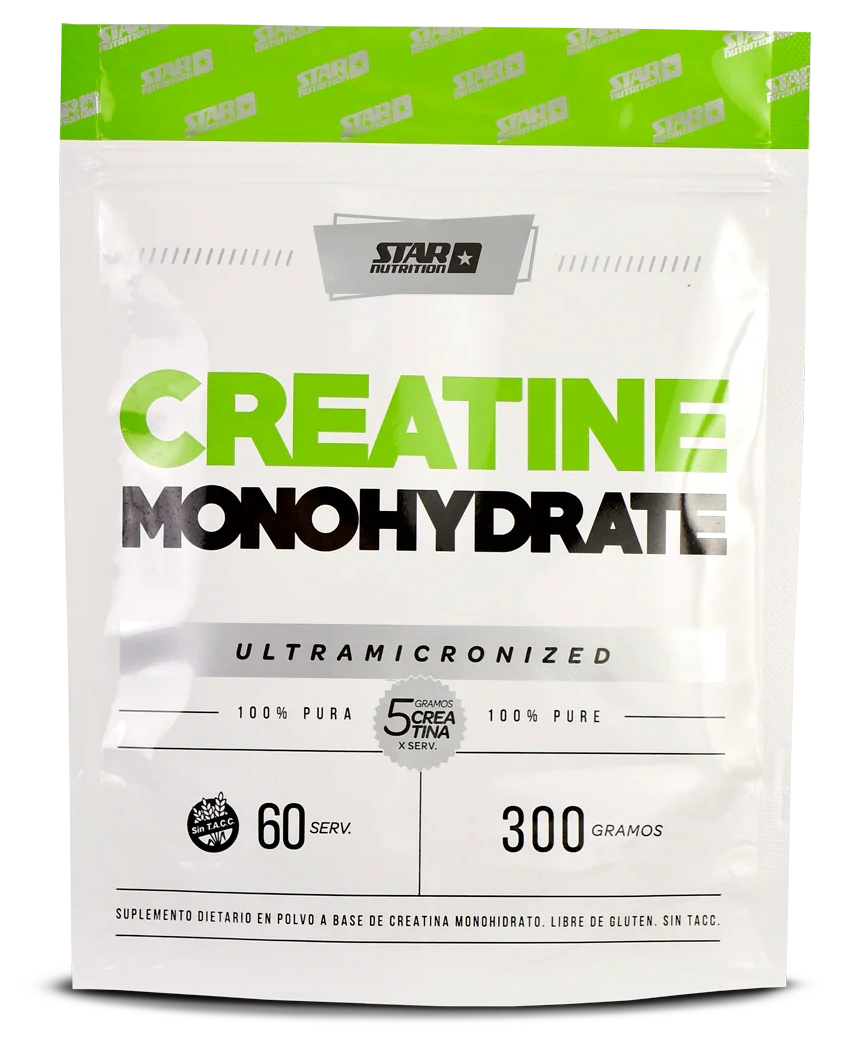
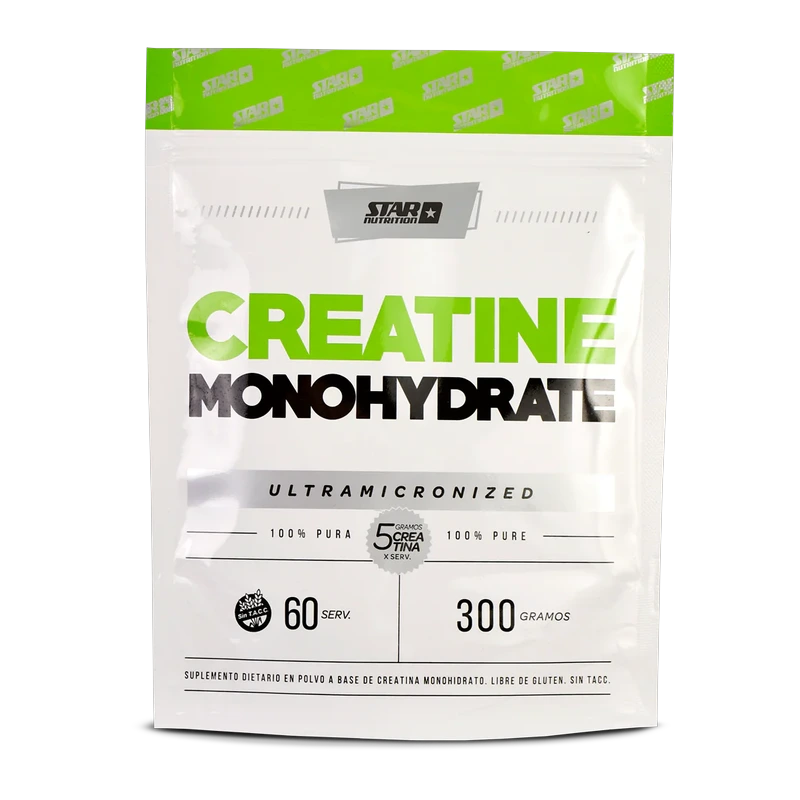
Se agrego imagenes del stock  de los productos (algunas)

diff --git a/src/data/products.ts b/src/data/products.ts
@@ -32,6 +32,7 @@ export const PRODUCTS: Product[] = [
     stock: true,
     categoria: "Creatinas",
     tagline: "Máxima Fuerza y Resistencia",
+    imagen: "/products/creatina-gold-300g.webp",
   },
   {
     id: 3,
@@ -43,6 +44,7 @@ export const PRODUCTS: Product[] = [
     stock: true,
     categoria: "Creatinas",
     tagline: "Formato XL Económico",
+    imagen: "/products/creatina-star-1000g.webp",
   },
   {
     id: 4,
@@ -65,6 +67,7 @@ export const PRODUCTS: Product[] = [
     stock: true,
     categoria: "Creatinas",
     tagline: "Inicio y Mantenimiento",
+    imagen: "/products/creatina-onefit-200g.webp",
   },
   {
     id: 6,
@@ -76,6 +79,7 @@ export const PRODUCTS: Product[] = [
     stock: true,
     categoria: "Creatinas",
     tagline: "Rendimiento Atlético Diario",
+    imagen: "/products/creatina-onefit-500g.webp",
   },
   {
     id: 7,
@@ -87,6 +91,7 @@ export const PRODUCTS: Product[] = [
     stock: true,
     categoria: "Proteínas",
     tagline: "Plant-Based High Protein",
+    imagen: "/products/proteina-vegetal-gold-907g.webp",
   },
   {
     id: 8,
@@ -98,6 +103,7 @@ export const PRODUCTS: Product[] = [
     stock: true,
     categoria: "Proteínas",
     tagline: "Proteína + Colágeno Hidrolizado",
+    imagen: "/products/collagen-whey-star-907g.webp",
   },
   {
     id: 9,
@@ -109,6 +115,7 @@ export const PRODUCTS: Product[] = [
     stock: true,
     categoria: "Proteínas",
     tagline: "25g de Proteína por Scoop",
+    imagen: "/products/premium-whey-star-doypack-907g.webp",
   },
   {
     id: 10,
@@ -131,6 +138,7 @@ export const PRODUCTS: Product[] = [
     stock: true,
     categoria: "Proteínas",
     tagline: "Rápida Absorción BCAA",
+    imagen: "/products/premium-whey-onefit-907g.webp",
   },
   {
     id: 12,

diff --git a/scratch/normalize_images.py b/scratch/normalize_images.py
@@ -1,0 +1,90 @@
+import os
+from PIL import Image
+import numpy as np
+from scipy.ndimage import label
+
+CANVAS_SIZE = (800, 800)
+TARGET_MAX_DIM = 710  # 710px out of 800px leaves 45px padding (88.75% height)
+
+def remove_white_exterior(im: Image.Image, tolerance=20) -> Image.Image:
+    im = im.convert("RGBA")
+    arr = np.array(im)
+    r, g, b, a = arr[:,:,0], arr[:,:,1], arr[:,:,2], arr[:,:,3]
+
+    # Mask of pixels that are near white
+    is_white = (r >= 255 - tolerance) & (g >= 255 - tolerance) & (b >= 255 - tolerance) & (a > 200)
+
+    # Label connected components of white
+    labeled, num_features = label(is_white)
+
+    # Find which components touch any outer edge
+    border_labels = set()
+    border_labels.update(labeled[0, :])
+    border_labels.update(labeled[-1, :])
+    border_labels.update(labeled[:, 0])
+    border_labels.update(labeled[:, -1])
+    border_labels.discard(0)
+
+    if border_labels:
+        ext_mask = np.isin(labeled, list(border_labels))
+        # Turn exterior white background transparent
+        arr[ext_mask, 3] = 0
+
+    return Image.fromarray(arr)
+
+def process_and_normalize(src_path: str, dst_path: str, is_white_bg=False):
+    im = Image.open(src_path)
+
+    if is_white_bg or im.mode == "RGB":
+        im = remove_white_exterior(im)
+    else:
+        im = im.convert("RGBA")
+
+    # Crop tightly to product bounding box
+    bbox = im.getbbox()
+    if not bbox:
+        print(f"Warning: Empty bbox for {src_path}")
+        return
+
+    cropped = im.crop(bbox)
+
+    # Scale so that maximum dimension equals TARGET_MAX_DIM
+    w, h = cropped.size
+    scale = TARGET_MAX_DIM / max(w, h)
+    new_w = max(1, int(round(w * scale)))
+    new_h = max(1, int(round(h * scale)))
+
+    resized = cropped.resize((new_w, new_h), Image.Resampling.LANCZOS)
+
+    # Create standard 800x800 square canvas
+    canvas = Image.new("RGBA", CANVAS_SIZE, (0, 0, 0, 0))
+
+    # Center resized product onto canvas
+    paste_x = (CANVAS_SIZE[0] - new_w) // 2
+    paste_y = (CANVAS_SIZE[1] - new_h) // 2
+
+    canvas.paste(resized, (paste_x, paste_y), resized)
+
+    # Save as WebP
+    os.makedirs(os.path.dirname(dst_path), exist_ok=True)
+    canvas.save(dst_path, "WEBP", quality=92)
+    print(f"Processed: {os.path.basename(src_path)} -> {os.path.basename(dst_path)} (content: {new_w}x{new_h})")
+
+MAPPING = [
+    ("Creatina Monohidrato Doypack (Bolsa) - 300 g.webp", "public/products/creatina-star-300g.webp", False),
+    ("Gold Nutrition Creatina Monohidrato Doypack 300g png.png", "public/products/creatina-gold-300g.webp", True),
+    ("CreatineM-1Kg_3095f1e3-5758-4f7e-8b63-d49c583050e0.png.webp", "public/products/creatina-star-1000g.webp", False),
+    ("One Fit Creatina Monohidrato 200g png.webp", "public/products/creatina-onefit-200g.webp", True),
+    ("One Fit Creatina Monohidrato 500g png.webp", "public/products/creatina-onefit-500g.webp", True),
+    ("Gold Nutrition Proteina Vegetal Isolate 2 lbs png.png", "public/products/proteina-vegetal-gold-907g.webp", False),
+    ("Star Nutrition Collagen Whey Protein 2 lbs png.webp", "public/products/collagen-whey-star-907g.webp", False),
+    ("Premium Whey Protein Doypack (Bolsa) - 2 lbs (907 g).webp", "public/products/premium-whey-star-doypack-907g.webp", False),
+    ("One Fit Premium Whey Protein 2 lbs png.webp", "public/products/premium-whey-onefit-907g.webp", True),
+]
+
+for src_name, dst_path, is_white in MAPPING:
+    src = os.path.join("IMAGES", src_name)
+    if os.path.exists(src):
+        process_and_normalize(src, dst_path, is_white_bg=is_white)
+    else:
+        print(f"Missing file: {src}")
